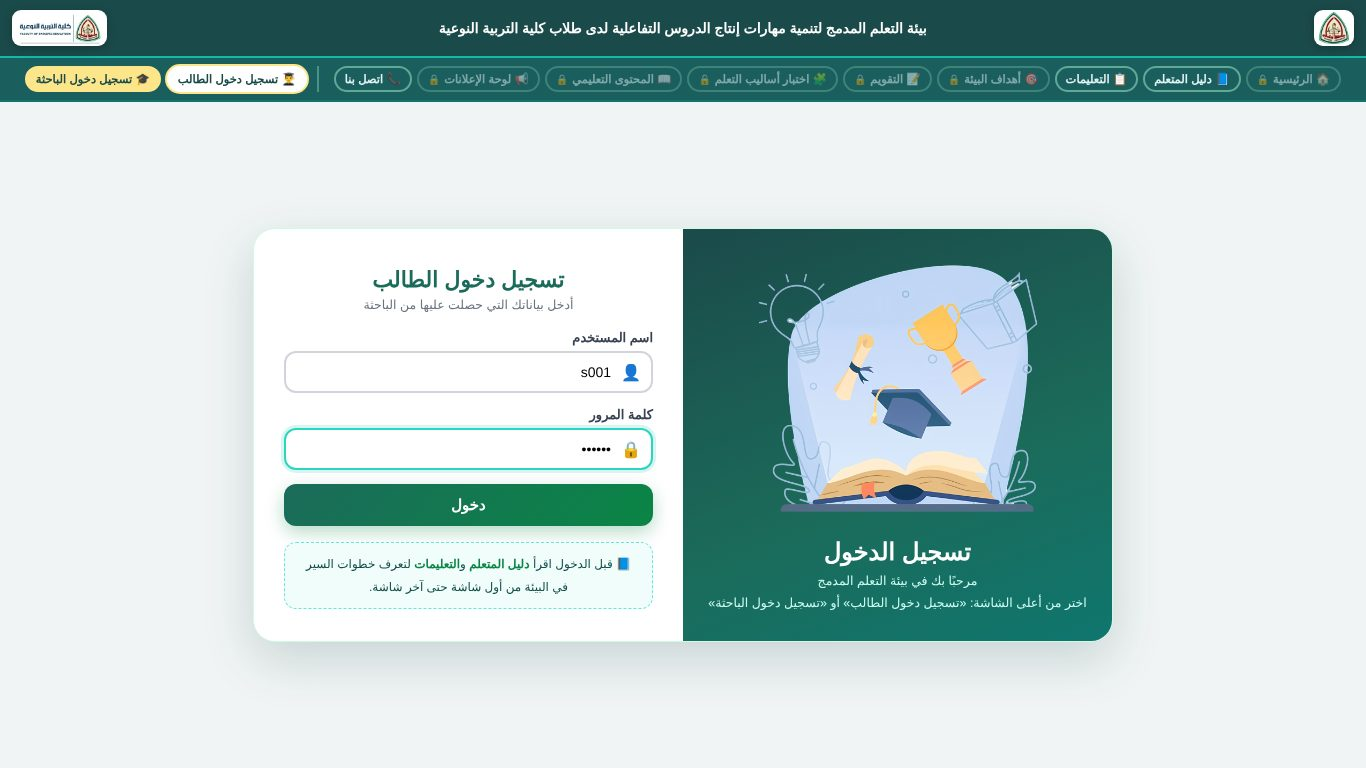
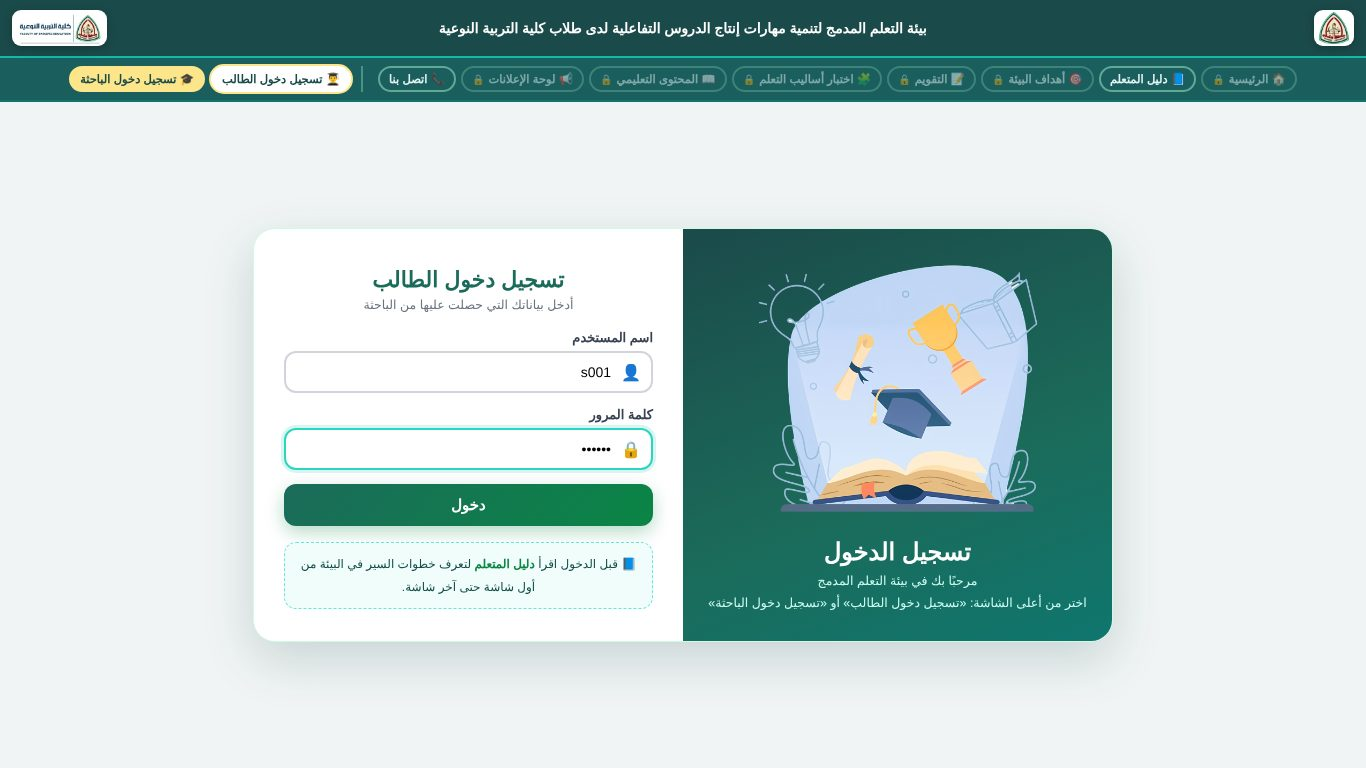
Update project

Changed region(s): [[0.0, 0.0625, 0.9839, 0.125], [0.2152, 0.7188, 0.4612, 0.7812]]

diff --git a/guied.html b/guied.html
@@ -45,6 +45,7 @@
         <div class="mini"><b>🏫 في البيئة الصفية (المحاضرات)</b>تدرس الموديول الأول (خلفية نظرية عن الدروس التفاعلية) والموديول الثاني (نموذج التصميم التعليمي لتصميم الدروس التفاعلية).</div>
         <div class="mini"><b>💻 في البيئة الإلكترونية (هذه البيئة)</b>تدرس الجانب العملي: الموديول الثالث (مرحلة إنتاج الدروس التفاعلية باستخدام برنامج CourseLab) والموديول الرابع (مرحلة نشر وتطبيق وتقويم الدروس التفاعلية).</div>
       </div>
+      <div class="tip" style="background:#fff7ed;border-color:#fdba74;">🔑 <b>للدخول على الموديول الثالث (البيئة التعليمية)</b> يجب أن تقوم بالإجابة على الاختبارات، سواء الاختبار التحصيلي القبلي أو اختبار أساليب التعلم، وبناءً على درجتك فيهما سيتم توجيهك للبيئة المناسبة.</div>
       <div class="tip">📌 الدليل متاح في كل وقت من رابط «📘 دليل المتعلم» أعلى الشاشة، ويمكنك فتحه حتى أثناء الاختبارات (يفتح في نافذة جديدة).</div>
     </section>
 
@@ -60,16 +61,17 @@
       <div class="tip">🔍 إذا ظهر شريط تمرير أو جزء مقصوص من الصفحة: صغّر تكبير المتصفح بالضغط على <b>Ctrl و −</b> حتى تظهر الصفحة كاملة، وللرجوع للحجم الطبيعي <b>Ctrl و 0</b>.</div>
     </section>
 
-    <section class="g-sec" id="login" data-title="تسجيل الدخول" data-ico="🔑" data-part="أولاً: الدخول إلى البيئة">
+    <section class="g-sec" id="login" data-title="الدخول إلى البيئة" data-ico="🔑" data-part="أولاً: الدخول إلى البيئة">
       <ol class="steps">
         <li>افتح متصفح الإنترنت (مثل Google Chrome).</li>
-        <li>اكتب أو الصق رابط البيئة في شريط العنوان: <span class="url" id="envUrl"></span> ثم اضغط <b>Enter</b>.</li>
-        <li>تظهر <b>شاشة تسجيل الدخول</b> للبيئة. تأكد أن الزر <b>«تسجيل دخول الطالب»</b> أعلى الشاشة هو المحدد.</li>
-        <li>اكتب <b>اسم المستخدم</b> و<b>كلمة المرور</b> اللذين أعطتهما لك الباحثة، ثم اضغط <b>«دخول»</b>.</li>
+        <li>انسخ رابط البيئة التالي والصقه في شريط العنوان: <span class="url" id="envUrl"></span> ثم اضغط <b>Enter</b>.</li>
+        <li class="only-closed">تظهر <b>شاشة تسجيل الدخول</b>؛ تأكد أن الزر <b>«تسجيل دخول الطالب»</b> أعلى الشاشة هو المحدد، واكتب <b>اسم المستخدم</b> و<b>كلمة المرور</b> اللذين أعطتهما لك الباحثة، ثم اضغط <b>«دخول»</b>.</li>
       </ol>
-      <figure class="shot"><img src="img/guide/01_login.jpg" alt="شاشة تسجيل الدخول"><figcaption>شاشة تسجيل الدخول</figcaption></figure>
-      <p>بمجرد الدخول يظهر اسمك أعلى الشاشة: <b>«👋 أهلاً، اسمك»</b> وبجواره زر <b>«تسجيل خروج»</b>، وتظهر روابط البيئة كلها، وفي أول دخول تنقلك البيئة مباشرة إلى الاختبار التحصيلي القبلي.</p>
-      <figure class="shot"><img src="img/guide/02_home.jpg" alt="الشاشة الرئيسية بعد الدخول"><figcaption>الشاشة الرئيسية للبيئة بعد تسجيل الدخول</figcaption></figure>
+      <figure class="shot only-closed"><img src="img/guide/01_login.jpg" alt="شاشة تسجيل الدخول"><figcaption>شاشة تسجيل الدخول</figcaption></figure>
+      <p>تظهر <b>الشاشة الرئيسية</b> للبيئة كما هو موضح بالشكل الآتي:</p>
+      <figure class="shot"><img src="img/guide/02_home.jpg" alt="الشاشة الرئيسية للبيئة"><figcaption>الشاشة الرئيسية للبيئة</figcaption></figure>
+      <div class="tip" style="background:#fff7ed;border-color:#fdba74;">📝 قم بأداء <b>الاختبار التحصيلي القبلي</b> و<b>اختبار أساليب التعلم</b>، وبناءً على درجتك فيهما سوف يتم توجيهك للبيئة المناسبة لتلقي الدعم، وتدخل إليها من خلال <b>اسم المستخدم (اليوزر نيم)</b> و<b>كلمة المرور</b> كما بالشكل الآتي:</div>
+      <figure class="shot"><img src="img/guide/09b_pattern_login.jpg" alt="شاشة تسجيل الدخول لبيئة الدعم"><figcaption>شاشة تسجيل الدخول لبيئة الدعم التي تم توجيهك إليها</figcaption></figure>
       <div class="tip">🔐 بياناتك شخصية؛ لا تشاركها مع أحد. كل دخول وكل خطوة تنجزها يُحفظ باسمك، وعند الدخول مرة أخرى (من أي جهاز) تكمل من حيث توقفت.</div>
     </section>
 
@@ -79,8 +81,7 @@
       <table class="tbl">
         <tr><th>الرابط</th><th>ماذا يحدث عند الضغط عليه؟</th></tr>
         <tr><td>🏠 الرئيسية</td><td>يعرض عنوان البحث وبيانات الباحثة والسادة المشرفين.</td></tr>
-        <tr><td>📘 دليل المتعلم</td><td>هذا الدليل.</td></tr>
-        <tr><td>📋 التعليمات</td><td>تعليمات مختصرة في ثلاثة روابط: الدخول — أثناء التعلم — الاختبارات والخروج.</td></tr>
+        <tr><td>📘 دليل المتعلم</td><td>هذا الدليل، ويتضمن كل تعليمات التعامل مع البيئة من الدخول حتى الخروج.</td></tr>
         <tr><td>🎯 أهداف البيئة</td><td>يعرض <b>الأهداف</b> التي ستكون قادرًا على تحقيقها بعد دراستك في البيئة.</td></tr>
         <tr><td>📝 التقويم</td><td>منه تؤدي الاختبار التحصيلي القبلي واختبار أساليب التعلم، وفي نهاية التعلم الاختبار التحصيلي البعدي.</td></tr>
         <tr><td>🧩 اختبار أساليب التعلم</td><td>رابط مباشر لاختبار أساليب التعلم (يُفتح بعد الاختبار القبلي).</td></tr>
@@ -144,12 +145,13 @@
       </ol>
       <p>اضغط على الدرس فتظهر تحته ثلاثة روابط: <b>🎯 أهداف الدرس</b> — <b>📄 محتوى الدرس</b> — <b>🧩 النشاط التعليمي</b>.</p>
       <figure class="shot"><img src="img/guide/11_lesson_objectives.jpg" alt="أهداف الدرس"><figcaption>«أهداف الدرس»: ما ستتمكن منه بعد دراسة الدرس</figcaption></figure>
-      <p>في <b>«محتوى الدرس»</b> تظهر <b>روابط المهارات</b> أعلى الشاشة؛ اضغط على رابط المهارة فيظهر <b>شرحها</b> وبجواره <b>الفيديو أو الصورة الخاصة بها</b>. تنقّل بين المهارات بالروابط، والمهارة التي شاهدتها يظهر بجوار رقمها ✓.</p>
-      <figure class="shot"><img src="img/guide/12_lesson_content_links.jpg" alt="محتوى الدرس وروابط المهارات"><figcaption>«محتوى الدرس»: روابط المهارات، وشرح المهارة المختارة مع الفيديو الخاص بها</figcaption></figure>
+      <p>بمجرد الضغط على <b>«محتوى الدرس»</b> تظهر أسفله <b>قائمة منسدلة</b> بأسماء مهارات الدرس (مثل: تحميل البرنامج — الوصول إلى الملف — خطوات التفعيل). اضغط على اسم المهارة فيظهر <b>شرحها</b> وبجواره <b>الفيديو أو الصور الخاصة بها</b>، والمهارة التي شاهدتها تتلوّن علامتها باللون الأخضر.</p>
+      <figure class="shot"><img src="img/guide/12_lesson_content_links.jpg" alt="محتوى الدرس وروابط المهارات"><figcaption>«محتوى الدرس»: قائمة المهارات المنسدلة، وشرح المهارة المختارة مع الفيديو الخاص بها</figcaption></figure>
       <p>بعد آخر درس في الموديول الثالث يظهر لك رابط الانتقال إلى الموديول الرابع، وبنفس الطريقة تستعرض دروسه الثلاثة: نشر الدرس التفاعلي في برنامج CourseLab — التغذية الراجعة لمرحلة الإنتاج ومرحلة التنفيذ — مرحلة التقويم Evaluation.</p>
     </section>
 
     <section class="g-sec" id="activity" data-title="النشاط التعليمي والدعم" data-ico="🧩" data-part="ثانياً: التفاعل مع البيئة والروابط">
+      <div class="tip" style="background:#fff7ed;border-color:#fdba74;">🧩 <b>لن يظهر النشاط لك إلا بعد أداء الجانب العملي الموجود</b> في «محتوى الدرس»، وخلال النشاط ستحتاج للدعم، وسيكون ظاهرًا أمامك بصورة ثابتة، أو أن تطلبه من خلال الضغط على الزر لعرضه.</div>
       <ol class="steps">
         <li>بعد دراسة محتوى الدرس اضغط على <b>«🧩 النشاط التعليمي»</b> في قائمة الدرس على اليمين.</li>
         <li>يظهر أمامك <b>وصف النشاط</b> و<b>المطلوب منك</b>؛ نفّذه على برنامج CourseLab.</li>
@@ -181,11 +183,14 @@
       <figure class="shot"><img src="img/guide/20_final_screen.jpg" alt="نتيجة الاختبار البعدي"><figcaption>الشاشة الأخيرة: نتيجة الاختبار التحصيلي البعدي</figcaption></figure>
     </section>
 
-    <section class="g-sec" id="exit" data-title="الخروج من البيئة ونصائح عامة" data-ico="🚪" data-part="ثانياً: التفاعل مع البيئة والروابط">
+    <section class="g-sec" id="exit" data-title="الخروج من البيئة وتعليمات عامة" data-ico="🚪" data-part="ثانياً: التفاعل مع البيئة والروابط">
       <ul class="steps">
         <li>للخروج في أي وقت اضغط زر <b>«🚪 تسجيل خروج»</b> أعلى الشاشة بجوار اسمك؛ يُحفظ تقدّمك وتكمل من نفس النقطة في الدخول التالي.</li>
-        <li>لا تغلق نافذة الاختبار أثناء أدائه؛ وعند انتهاء الوقت يُسلَّم تلقائيًا.</li>
-        <li>ادرس الدروس بالترتيب، ونفّذ نشاط كل درس قبل الانتقال للدرس التالي.</li>
+        <li>اضبط تكبير المتصفح على <b>100%</b>، واستخدم أحدث إصدار من Google Chrome مع اتصال إنترنت مستقر.</li>
+        <li>ادرس الدروس بالترتيب: <b>أهداف الدرس</b> ← <b>محتوى الدرس</b> ← <b>النشاط التعليمي</b>، ونفّذ نشاط كل درس وسلّمه قبل الانتقال للدرس التالي.</li>
+        <li>شاهد فيديو كل مهارة كاملًا، وطبّق المهارة عمليًا على برنامج CourseLab.</li>
+        <li>أثناء أي اختبار: لا تغلق الصفحة ولا تغادرها؛ يمكنك فقط فتح «دليل المتعلم» في نافذة جديدة، وعند انتهاء الوقت يُسلَّم الاختبار تلقائيًا بالإجابات المسجلة.</li>
+        <li>تابع <b>لوحة الإعلانات</b> باستمرار؛ تنشر فيها الباحثة التذكيرات والمواعيد (مثل موعد تسليم الأنشطة وكلمة مرور الاختبار البعدي).</li>
         <li>إذا واجهتك مشكلة تقنية: حدّث الصفحة (F5)، وتأكد من الإنترنت، ثم تواصل مع الباحثة من «اتصل بنا».</li>
       </ul>
     </section>
@@ -199,8 +204,9 @@
 (function(){
   /* رابط البيئة الفعلي */
   try {
-    var u = new URL(ENV.url('main', 'index.html'), location.href).href;
-    document.getElementById('envUrl').textContent = u.replace(/index\.html$/, '');
+    var u = new URL(ENV.url('main', 'home.html'), location.href).href;
+    document.getElementById('envUrl').textContent = u;
+    if (ENV.CONFIG && ENV.CONFIG.OPEN_MODE) document.querySelectorAll('.only-closed').forEach(function(el){ el.style.display = 'none'; });
   } catch(e) {}
   /* تكبير الصور */
   document.querySelectorAll('.shot img').forEach(function(im){

diff --git a/admin.html b/admin.html
@@ -71,6 +71,7 @@ tr:hover td{background:#f8fffd;}
     <a href="#accounts">➕ إنشاء حسابات الطلاب</a>
     <a href="#activities">📝 إجابات الأنشطة</a>
     <a href="#log">🕒 سجل نشاط الطلاب</a>
+    <a href="#ann">📢 لوحة الإعلانات</a>
     <a href="#researchers">🎓 حسابات الباحثين</a>
   </div>
   <div class="row" style="margin-bottom:10px;">
@@ -115,7 +116,7 @@ tr:hover td{background:#f8fffd;}
         <div style="display:grid;gap:8px;">
           <input id="aName" placeholder="اسم الطالب (كما يظهر في البيئة)">
           <input id="aUser" placeholder="اسم المستخدم (إنجليزي بدون مسافات) مثل: s001" dir="ltr" style="text-align:right;">
-          <div class="row"><input id="aPass" placeholder="كلمة المرور (6 أحرف على الأقل)" dir="ltr" style="flex:1;text-align:right;"><button class="ghost" onclick="$('aPass').value=genPass()">🎲 توليد</button></div>
+          <div class="row"><input id="aPass" placeholder="كلمة المرور (6 أرقام/أحرف على الأقل) — اتركها فارغة لتوليد 6 أرقام" dir="ltr" style="flex:1;text-align:right;"><button class="ghost" onclick="$('aPass').value=genPass()">🎲 توليد</button></div>
           <button onclick="addOne()" id="aBtn">إنشاء الحساب</button>
           <div class="msg" id="aMsg"></div>
         </div>
@@ -159,6 +160,27 @@ tr:hover td{background:#f8fffd;}
   </section>
 
   <!-- ============ الباحثون ============ -->
+  <section class="pane" id="ann">
+    <div class="grid2">
+      <div class="box"><h3>📢 نشر إعلان / تذكير للطلاب</h3>
+        <div class="muted" style="margin-bottom:6px;">يظهر الإعلان فورًا في «لوحة الإعلانات» لدى الطلاب، مثل التذكير بالانتهاء من النشاط وتسليمه أو موعد الاختبار البعدي.</div>
+        <div style="display:grid;gap:8px;">
+          <input id="anTitle" placeholder="عنوان الإعلان (مثال: تذكير بتسليم نشاط الدرس الرابع)">
+          <textarea id="anText" rows="5" placeholder="نص الإعلان..." dir="auto"></textarea>
+          <div class="row">
+            <label class="muted">النوع:</label>
+            <select id="anType"><option value="urgent">🔴 عاجل</option><option value="info" selected>🔵 تذكير / توجيه</option></select>
+            <label class="muted">يظهر لـ:</label>
+            <select id="anTarget"><option value="all">كل الطلاب (الأنماط الأربعة)</option></select>
+          </div>
+          <div class="row"><button onclick="saveAnn()" id="anBtn">📢 نشر الإعلان</button><button class="ghost" onclick="resetAnn()">مسح الحقول</button></div>
+          <div class="msg" id="anMsg"></div>
+        </div>
+      </div>
+      <div class="box"><h3>الإعلانات المنشورة</h3><div class="muted" style="margin-bottom:6px;">يمكنك إخفاء الإعلان مؤقتًا أو تعديله أو حذفه.</div><div class="tblwrap"><table id="anTbl"></table></div></div>
+    </div>
+  </section>
+
   <section class="pane" id="researchers">
     <div class="grid2">
       <div class="box"><h3>➕ إضافة حساب باحث/مشرف</h3>
@@ -183,7 +205,7 @@ tr:hover td{background:#f8fffd;}
 <script src="https://www.gstatic.com/firebasejs/9.23.0/firebase-firestore-compat.js"></script>
 <script src="https://www.gstatic.com/firebasejs/9.23.0/firebase-auth-compat.js"></script>
 <script>
-var D = { students:{}, progress:{}, results:{}, activities:{}, logs:{}, researchers:{} };
+var D = { students:{}, progress:{}, results:{}, activities:{}, logs:{}, researchers:{}, announcements:{} };
 var ENVN = { g1:'بيئة 1: دعم ثابت / معتمد', g2:'بيئة 2: دعم ثابت / مستقل', g3:'بيئة 3: دعم مرن / معتمد', g4:'بيئة 4: دعم مرن / مستقل' };
 var STYLEN = { dep:'معتمد على المجال', ind:'مستقل عن المجال' };
 var EVN = { login:'دخول', logout:'خروج', pretest:'الاختبار القبلي', styles:'اختبار أساليب التعلم', posttest:'الاختبار البعدي', view:'فتح قسم درس', skill:'مشاهدة مهارة', activity:'تسليم نشاط' };
@@ -196,7 +218,8 @@ function $(id){ return document.getElementById(id); }
 function esc(s){ return String(s==null?'':s).replace(/[&<>"']/g,function(c){return {'&':'&amp;','<':'&lt;','>':'&gt;','"':'&quot;',"'":'&#39;'}[c];}); }
 function fmt(d){ if(!d) return '—'; try { return new Date(d).toLocaleString('ar-EG',{dateStyle:'short',timeStyle:'short'}); } catch(e){ return d; } }
 function v(x){ return (x===null||x===undefined||x==='')?'—':x; }
-function genPass(){ var c='abcdefghjkmnpqrstuvwxyz23456789', p=''; for(var i=0;i<7;i++) p+=c[Math.floor(Math.random()*c.length)]; return p; }
+/* كلمة مرور سهلة للطالب: 6 أرقام */
+function genPass(){ var p=''; for(var i=0;i<6;i++) p+=Math.floor(Math.random()*10); if(p[0]==='0') p='1'+p.slice(1); return p; }
 function showMsg(id, ok, t){ var m=$(id); m.className='msg '+(ok?'ok':'err'); m.innerHTML=t; }
 function db(){ return firebase.firestore(); }
 function colMap(name){ return db().collection(name).get().then(function(q){ var o={}; q.forEach(function(d){ o[d.id]=d.data(); }); return o; }); }
@@ -218,14 +241,50 @@ function loadAll(){
     var au = firebase.auth().currentUser;
     if(!au){ ENV.logout(); throw {code:'auth/session'}; }
     var keys=['students','progress','results','activities','researchers'];
+    var annP=colMap('announcements').then(function(o){ D.announcements=o; })['catch'](function(){ D.announcements=D.announcements||{}; });
     var logsP=db().collection('logs').orderBy('at','desc').limit(5000).get().then(function(q){
       var L={}; q.forEach(function(d){ var x=d.data(); (L[x.uid]=L[x.uid]||{})[d.id]=x; }); D.logs=L; });
-    return Promise.all(keys.map(function(k){ return colMap(k).then(function(o){ D[k]=o; }); }).concat([logsP]));
+    return Promise.all(keys.map(function(k){ return colMap(k).then(function(o){ D[k]=o; }); }).concat([logsP, annP]));
   }).then(function(){
     renderAll();
     $('status').textContent='آخر تحديث: '+new Date().toLocaleTimeString('ar-EG')+' — عدد الطلاب: '+Object.keys(D.students).length;
   }).catch(function(e){ $('status').textContent='⚠ '+ENV.authMsg(e); });
 }
+
+/* ---------- لوحة الإعلانات ---------- */
+var AN_EDIT=null;
+function annTargets(){
+  var sel=$('anTarget'); if(!sel || sel.options.length>1) return;
+  Object.keys(ENV.CONFIG.SITES).forEach(function(k){ var o=document.createElement('option'); o.value=k; o.textContent='بيئة '+ENV.CONFIG.SITES[k].label+' فقط'; sel.appendChild(o); });
+}
+function renderAnn(){
+  annTargets();
+  var A=D.announcements||{}, ids=Object.keys(A).sort(function(a,b){ return String(A[b].createdAt||'').localeCompare(String(A[a].createdAt||'')); });
+  var T=function(t){ return t==='all'?'كل الطلاب':((ENV.CONFIG.SITES[t]||{}).label||t); };
+  $('anTbl').innerHTML='<tr><th>العنوان</th><th>النوع</th><th>يظهر لـ</th><th>التاريخ</th><th>الحالة</th><th></th></tr>'+
+    (ids.length? ids.map(function(id){ var a=A[id];
+      return '<tr><td><b>'+esc(a.title)+'</b><div class="muted" style="max-width:340px;white-space:pre-wrap;">'+esc(a.text)+'</div></td><td>'+(a.type==='urgent'?'🔴 عاجل':'🔵 تذكير')+'</td><td>'+esc(T(a.target||'all'))+'</td><td>'+esc(String(a.createdAt||'').slice(0,10))+'</td><td>'+(a.active===false?'⏸ مخفي':'✅ ظاهر')+'</td>'+
+        '<td style="white-space:nowrap;"><button class="ghost" onclick="editAnn(\''+id+'\')">✏</button> <button class="ghost" onclick="toggleAnn(\''+id+'\')">'+(a.active===false?'إظهار':'إخفاء')+'</button> <button class="ghost" onclick="delAnn(\''+id+'\')">🗑</button></td></tr>';
+    }).join('') : '<tr><td colspan="6" class="muted">لا توجد إعلانات منشورة بعد.</td></tr>');
+}
+function resetAnn(){ AN_EDIT=null; $('anTitle').value=''; $('anText').value=''; $('anType').value='info'; $('anTarget').value='all'; $('anBtn').textContent='📢 نشر الإعلان'; }
+function editAnn(id){ var a=(D.announcements||{})[id]; if(!a) return; AN_EDIT=id; $('anTitle').value=a.title||''; $('anText').value=a.text||''; $('anType').value=a.type||'info'; $('anTarget').value=a.target||'all'; $('anBtn').textContent='💾 حفظ التعديل'; $('anTitle').focus(); }
+function saveAnn(){
+  var t=$('anTitle').value.trim(), x=$('anText').value.trim();
+  if(!t || !x) return showMsg('anMsg',false,'اكتب عنوان الإعلان ونصه.');
+  var o={ title:t, text:x, type:$('anType').value, target:$('anTarget').value, updatedAt:new Date().toISOString() };
+  var ref = AN_EDIT ? db().collection('announcements').doc(AN_EDIT) : db().collection('announcements').doc();
+  if(!AN_EDIT){ o.createdAt=o.updatedAt; o.active=true; o.by=(ENV.user()||{}).name||''; }
+  $('anBtn').disabled=true;
+  ref.set(o,{merge:true}).then(function(){
+    D.announcements=D.announcements||{}; D.announcements[ref.id]=Object.assign({}, D.announcements[ref.id]||{}, o);
+    showMsg('anMsg',true, AN_EDIT?'تم حفظ التعديل.':'تم نشر الإعلان، ويظهر الآن في لوحة إعلانات الطلاب.'); resetAnn(); renderAnn();
+  }).catch(function(e){ showMsg('anMsg',false,'تعذر الحفظ: '+ENV.authMsg(e)); }).then(function(){ $('anBtn').disabled=false; });
+}
+function toggleAnn(id){ var a=D.announcements[id]; var v=(a.active===false);
+  db().collection('announcements').doc(id).set({active:v},{merge:true}).then(function(){ a.active=v; renderAnn(); }).catch(function(e){ alert(ENV.authMsg(e)); }); }
+function delAnn(id){ if(!confirm('حذف هذا الإعلان نهائيًا؟')) return;
+  db().collection('announcements').doc(id).delete().then(function(){ delete D.announcements[id]; renderAnn(); }).catch(function(e){ alert(ENV.authMsg(e)); }); }
 
 function rows(){
   return Object.keys(D.students).map(function(uid){
@@ -246,7 +305,7 @@ function rows(){
   }).sort(function(x,y){ return String(x.username).localeCompare(String(y.username)); });
 }
 
-function renderAll(){ renderOverview(); renderStudents(); renderCreds(); renderActivities(); renderLog(); renderResearchers(); }
+function renderAll(){ renderOverview(); renderStudents(); renderCreds(); renderActivities(); renderLog(); renderResearchers(); renderAnn(); }
 
 function renderOverview(){
   var R=rows(), n=R.length;

diff --git a/instructions.html b/instructions.html
@@ -2,76 +2,10 @@
 <html lang="ar" dir="rtl">
 <head>
 <meta charset="UTF-8">
-<script src="env.js" data-site="main"></script>
-<meta name="viewport" content="width=device-width, initial-scale=1.0">
-<title>التعليمات</title>
-<link href="https://fonts.googleapis.com/css2?family=Cairo:wght@300;400;600;700;800&display=swap" rel="stylesheet">
-<link rel="stylesheet" href="guide.css">
-<style>.g-wrap{grid-template-columns:1fr;max-width:1100px;}</style>
+<title>دليل المتعلم</title>
+<!-- تبويب «التعليمات» حُذف ودُمجت تعليماته في «دليل المتعلم» -->
+<script>location.replace('guied.html' + (location.hash || ''));</script>
+<meta http-equiv="refresh" content="0;url=guied.html">
 </head>
-<body>
-<div class="header">
-  <div class="brand-logos">
-    <img src="img/logo-zu.png" alt="شعار جامعة الزقازيق">
-    <img src="img/logo-col.jpeg" alt="شعار كلية التربية النوعية">
-  </div>
-  <div class="header-title">بيئة التعلم المدمج لتنمية مهارات إنتاج الدروس التفاعلية لدى طلاب كلية التربية النوعية</div>
-</div>
-<nav class="nav"></nav>
-
-<div class="g-wrap">
-  <main class="g-main" id="gMain">
-    <div style="text-align:center;margin-bottom:12px;">
-      <div style="font-size:22px;font-weight:800;color:#1b6b5a;">📋 التعليمات</div>
-      <div style="font-size:13px;color:#64748b;">تعليمات التعامل مع البيئة من الدخول حتى الخروج — اضغط على الرابط المطلوب</div>
-    </div>
-
-    <div class="ins-links">
-      <a class="ins-link" href="#before"><span class="big">🔑</span><b>١) تعليمات الدخول إلى البيئة</b><small>قبل الدخول وعند تسجيل الدخول</small></a>
-      <a class="ins-link" href="#during"><span class="big">📖</span><b>٢) تعليمات أثناء التعلم</b><small>التنقل — المحتوى — الأنشطة — الدعم</small></a>
-      <a class="ins-link" href="#tests"><span class="big">🏁</span><b>٣) تعليمات الاختبارات والخروج</b><small>القبلي — أساليب التعلم — البعدي — آخر شاشة</small></a>
-    </div>
-
-    <section class="g-sec" id="before" data-title="تعليمات الدخول إلى البيئة" data-ico="🔑">
-      <ol class="steps">
-        <li>اقرأ <a href="guied.html">دليل المتعلم</a> قبل الدخول للبيئة.</li>
-        <li>اضبط دقة الشاشة على <b>1366×768 بكسل كحد أدنى</b> (يُفضّل <b>1920×1080</b>) وتكبير المتصفح على <b>100%</b>.</li>
-        <li>استخدم أحدث إصدار من متصفح <b>Google Chrome</b> مع اتصال إنترنت مستقر.</li>
-        <li>افتح رابط البيئة؛ تظهر شاشة <b>تسجيل الدخول</b>.</li>
-        <li>اكتب <b>اسم المستخدم</b> ثم <b>كلمة المرور</b> اللذين أعطتهما لك الباحثة، واضغط <b>«دخول»</b>.</li>
-        <li>بياناتك شخصية؛ لا تشاركها مع أحد، وكل دخول يُسجَّل باسمك.</li>
-        <li>عند العودة لاحقًا ادخل بنفس البيانات، وستكمل من حيث توقفت.</li>
-      </ol>
-    </section>
-
-    <section class="g-sec" id="during" data-title="تعليمات أثناء التعلم" data-ico="📖">
-      <ol class="steps">
-        <li>تنقّل بين أجزاء البيئة من <b>التبويبات</b> أعلى الشاشة؛ التبويب الذي بجواره 🔒 لم يحن دوره بعد.</li>
-        <li>بعد اختبار أساليب التعلم وتسجيل الدخول لبيئتك يُفتح <b>المحتوى التعليمي</b> في نمط الدعم المحدد لك؛ ابدأ بـ<b>الموديول الثالث</b> ثم <b>الرابع</b>.</li>
-        <li>لكل درس ثلاثة أقسام: <b>أهداف الدرس</b> ← <b>محتوى الدرس</b> ← <b>النشاط التعليمي</b>.</li>
-        <li>في «محتوى الدرس» اضغط على <b>رابط المهارة</b> لعرض شرحها والفيديو الخاص بها؛ لا توجد أزرار «التالي/السابق».</li>
-        <li>شاهد الفيديو كاملًا وطبّق المهارة على برنامج CourseLab.</li>
-        <li>في «النشاط التعليمي» نفّذ المطلوب، واستعن بـ<b>الدعم</b> الظاهر بجوار النشاط (الثابت يظهر دائمًا، والمرن تفتحه بنفسك).</li>
-        <li>اكتب إجابتك واضغط <b>«تسليم الإجابة»</b> قبل الانتقال للدرس التالي.</li>
-        <li>تابع <b>لوحة الإعلانات</b>، وتواصل مع المشرف من <b>«اتصل بنا»</b> عند الحاجة.</li>
-      </ol>
-    </section>
-
-    <section class="g-sec" id="tests" data-title="تعليمات الاختبارات والخروج من البيئة" data-ico="🏁">
-      <ol class="steps">
-        <li><b>الاختبار القبلي</b> يُفتح بعد أول دخول مباشرة: 160 سؤالًا في 90 دقيقة، ويُؤدّى مرة واحدة فقط.</li>
-        <li>للإجابة على التقويم اضغط رابط <b>«📝 التقويم»</b> واختر الاختبار التحصيلي القبلي، ثم <b>اختبار أساليب التعلم</b> (أو من الرابط الذي يظهر تحت نتيجة القبلي)؛ نتيجته تحدد نمط الدعم وتوجّهك للبيئة المناسبة لك.</li>
-        <li>بعد التوجيه تظهر <b>شاشة تسجيل الدخول</b> لبيئتك: ادخل بنفس اسم المستخدم وكلمة المرور، فيُفتح المحتوى التعليمي.</li>
-        <li>أثناء أي اختبار: لا تغلق الصفحة ولا تغادرها؛ يمكنك فقط فتح «التعليمات» و«دليل المتعلم» في نافذة جديدة.</li>
-        <li>عند انتهاء الوقت يُسلَّم الاختبار تلقائيًا بالإجابات المسجلة.</li>
-        <li><b>الاختبار البعدي</b> بعد إنهاء الموديولين، بكلمة مرور يعلنها المشرف في موعده.</li>
-        <li>نتيجة الاختبار البعدي: <b>50% فأكثر</b> = اجتزت المحتوى بنجاح؛ <b>أقل من 50%</b> = ادرس محتوى الموديولات مرة أخرى ثم أعد الاختبار البعدي من رابط «التقويم».</li>
-        <li><b>آخر شاشة في البيئة</b> هي «نتيجة الاختبار التحصيلي البعدي»: اقرأ نتيجتك ثم اضغط <b>«🚪 إنهاء وتسجيل الخروج من البيئة»</b>.</li>
-        <li>للخروج في أي وقت قبل ذلك اضغط تبويب <b>«🚪 خروج»</b>؛ تقدّمك محفوظ.</li>
-      </ol>
-    </section>
-  </main>
-</div>
-<script src="guide.js"></script>
-</body>
+<body><a href="guied.html">دليل المتعلم</a></body>
 </html>

diff --git a/env.js b/env.js
@@ -378,7 +378,6 @@
     var T = [
       { k: 'home',    ico: '🏠', label: 'الرئيسية',             href: url('main', 'home.html') },
       { k: 'guide',   ico: '📘', label: 'دليل المتعلم',          href: url('main', 'guied.html') },
-      { k: 'instr',   ico: '📋', label: 'التعليمات',             href: url('main', 'instructions.html') },
       { k: 'aims',    ico: '🎯', label: 'أهداف البيئة',          href: url('main', 'aims.html') },
       { k: 'eval',    ico: '📝', label: 'التقويم',               href: url('main', 'pretest.html') },
       { k: 'styles',  ico: '🧩', label: 'اختبار أساليب التعلم',  href: url('main', 'trian.html'),
@@ -395,14 +394,14 @@
     if (CONFIG.RESEARCHER) T.push({ k: 'admin', ico: '📊', label: 'لوحة الباحثة', href: url('main', 'admin.html') });
     if (!CONFIG.OPEN_MODE && !user()) {
       T.forEach(function (t) {
-        if (['guide', 'instr', 'contact'].indexOf(t.k) === -1) t.lock = 'سجّل الدخول أولاً من زر «دخول الطالب» أعلى الشاشة';
+        if (['guide', 'contact'].indexOf(t.k) === -1) t.lock = 'سجّل الدخول أولاً من زر «دخول الطالب» أعلى الشاشة';
       });
     }
     return T;
   }
   function activeKey() {
     var map = {
-      'home.html': 'home', 'guied.html': 'guide', 'instructions.html': 'instr', 'aims.html': 'aims',
+      'home.html': 'home', 'guied.html': 'guide', 'instructions.html': 'guide', 'aims.html': 'aims',
       'pretest.html': 'eval', 'befor.html': 'eval', 'after.html': 'eval', 'trian.html': 'styles',
       'mods.html': 'content', 'mod3lessons.html': 'content', 'mod4lessons.html': 'content',
       'poster.html': 'poster', 'contact.html': 'contact', 'admin.html': 'admin'
@@ -442,9 +441,9 @@
       var k = a.getAttribute('data-tab');
       var inExam = document.body.classList.contains('exam-active');
       if (inExam) {
-        /* أثناء الاختبار: التعليمات ودليل المتعلم تُفتح في نافذة جديدة حتى لا يضيع الاختبار */
-        if (k === 'instr' || k === 'guide') { e.preventDefault(); window.open(a.href, '_blank'); return; }
-        e.preventDefault(); toast('🔒 لا يمكنك مغادرة الصفحة أثناء الاختبار — يمكنك فتح «التعليمات» أو «دليل المتعلم» فقط'); return;
+        /* أثناء الاختبار: دليل المتعلم يُفتح في نافذة جديدة حتى لا يضيع الاختبار */
+        if (k === 'guide') { e.preventDefault(); window.open(a.href, '_blank'); return; }
+        e.preventDefault(); toast('🔒 لا يمكنك مغادرة الصفحة أثناء الاختبار — يمكنك فتح «دليل المتعلم» فقط'); return;
       }
       if (a.classList.contains('env-locked')) { e.preventDefault(); toast('🔒 ' + a.getAttribute('data-lock')); return; }
       if (k === 'logout' && user()) { e.preventDefault(); logout(); return; }

diff --git a/index.html b/index.html
@@ -117,7 +117,7 @@ body{display:flex;flex-direction:column;min-height:100vh;}
       </div>
 
       <div class="before">
-        📘 قبل الدخول اقرأ <a href="guied.html">دليل المتعلم</a> و<a href="instructions.html">التعليمات</a>
+        📘 قبل الدخول اقرأ <a href="guied.html">دليل المتعلم</a>
         لتعرف خطوات السير في البيئة من أول شاشة حتى آخر شاشة.
       </div>
     </div>
